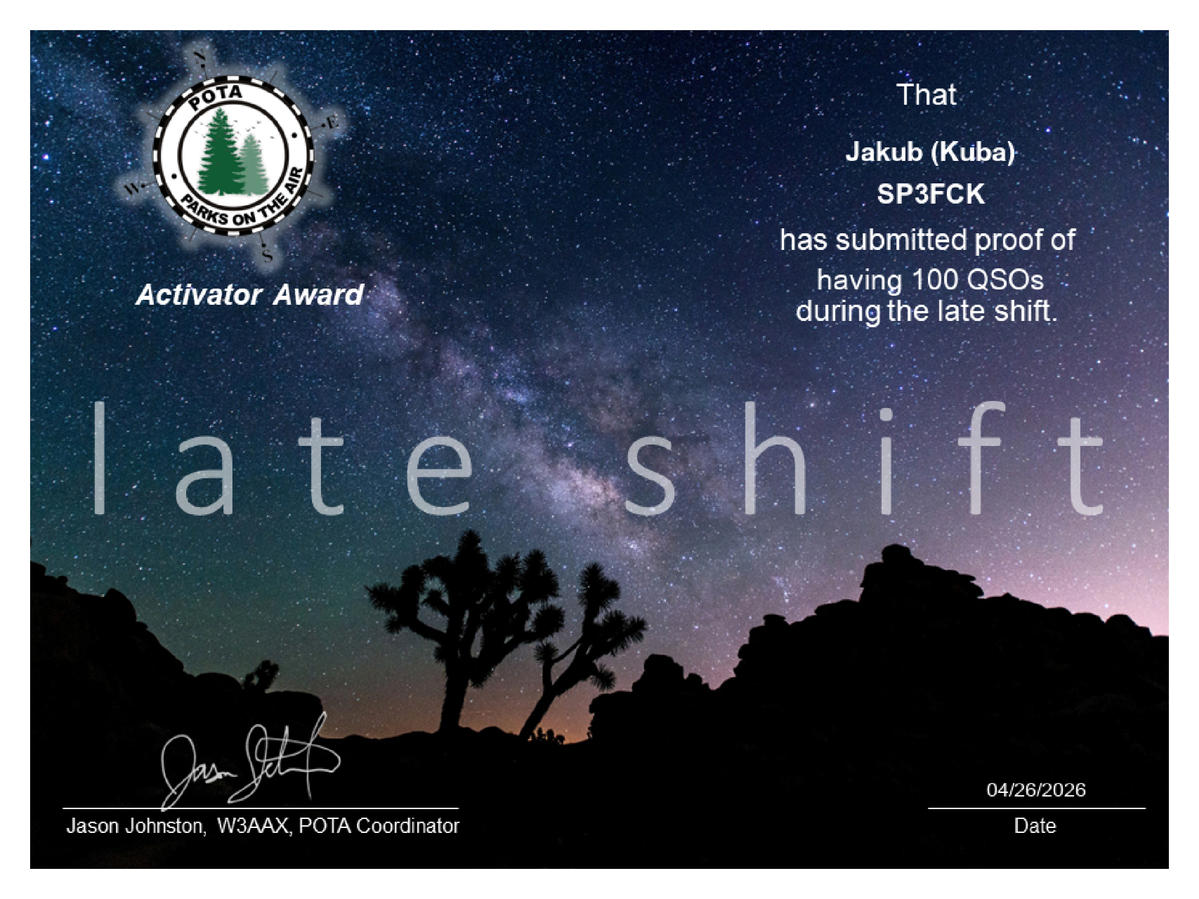
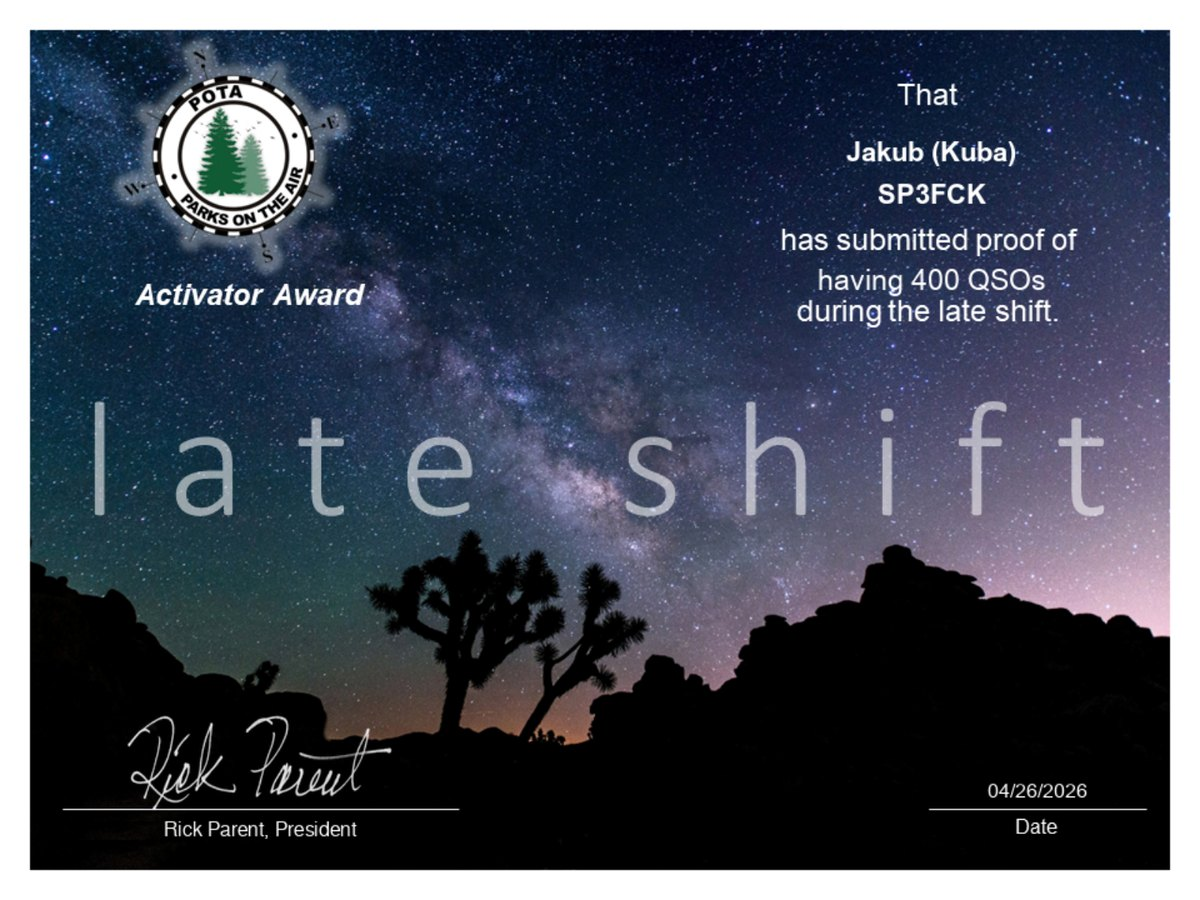
feat: update the awards gallery with new certificates
Add seven certificates converted from PDF (LLOTA Hunter, POTA Goldenrod
Hunter, All Voivodeships Hunter, Sapphire Hunter and higher levels of
DX Hunter, Park to Park and Late Shift Activator), drop the four
superseded entries and order the awards chronologically, newest first.

diff --git a/data/gallery.js b/data/gallery.js
@@ -1,30 +1,30 @@
-/* Galeria: zdjęcia w assets/img/gallery/. Kolejność = kolejność na stronie (najnowsze/najważniejsze pierwsze).
+/* Galeria: zdjęcia w assets/img/gallery/. Kolejność = kolejność na stronie; dyplomy chronologicznie, od najnowszego.
    cat: "awards" (dyplomy) albo "station" (stacja i sprzęt). Teksty: [EN, PL]. */
 window.SP3FCK_GALLERY = [
+  { file: 'LLOTA_Award_LLOTA_23961_2026.jpg', cat: 'awards', year: 2026,
+    title: ['LLOTA Hunter', 'LLOTA Hunter'],
+    desc: ['Hunted 10 references in the LLOTA program', '10 upolowanych referencji w programie LLOTA'] },
+  { file: 'SP3FCK_POTA_Ouachita_Mountain_Goldenrod_Hunter.jpg', cat: 'awards', year: 2026,
+    title: ['POTA Ouachita Mountain Goldenrod Hunter', 'POTA Ouachita Mountain Goldenrod Hunter'],
+    desc: ['Worked 300 different parks', '300 różnych parków zaliczonych'] },
+  { file: 'SP3FCK_POTA_Worked_All_Voivodeships_in_Poland.jpg', cat: 'awards', year: 2026,
+    title: ['POTA All Voivodeships Hunter', 'POTA All Voivodeships Hunter'],
+    desc: ['At least one park worked in every voivodeship of Poland', 'Co najmniej jeden park zaliczony w każdym województwie'] },
+  { file: 'SP3FCK_POTA_Enrubio_Hunter.jpg', cat: 'awards', year: 2026,
+    title: ['POTA Enrubio Hunter', 'POTA Enrubio Hunter'],
+    desc: ['Worked 200 different parks', '200 różnych parków zaliczonych'] },
+  { file: 'SP3FCK_POTA_Late_Shift_Activator.jpg', cat: 'awards', year: 2026,
+    title: ['POTA Late Shift Activator', 'POTA Late Shift Activator'],
+    desc: ['400 QSOs during the late shift', '400 łączności w nocnej zmianie'] },
   { file: 'SP3FCK_CQWPX_2026_SSB_2.jpg', cat: 'awards', year: 2026,
     title: ['CQ WPX SSB 2026 – Rookie', 'CQ WPX SSB 2026 – Rookie'],
     desc: ['Certificate for second place in Poland', 'Dyplom za drugie miejsce w Polsce'] },
   { file: 'SP3FCK_CQWPX_2026_SSB_27.jpg', cat: 'awards', year: 2026,
     title: ['CQ WPX SSB 2026 – Poland', 'CQ WPX SSB 2026 – Polska'],
     desc: ['Single Operator Low Power certificate', 'Dyplom w kategorii Single Operator Low Power'] },
-  { file: 'SP3FCK_POTA_Enrubio_Hunter.jpg', cat: 'awards', year: 2026,
-    title: ['POTA Enrubio Hunter', 'POTA Enrubio Hunter'],
-    desc: ['Worked 200 different parks', '200 różnych parków zaliczonych'] },
-  { file: 'SP3FCK_POTA_Late_Shift_Activator.jpg', cat: 'awards', year: 2026,
-    title: ['POTA Late Shift Activator', 'POTA Late Shift Activator'],
-    desc: ['Late Shift Activator Award', 'Dyplom za aktywacje w nocnej zmianie'] },
-  { file: 'CQWW_2025_SSB_certificate_rookie.png', cat: 'awards', year: 2025,
-    title: ['CQ WW SSB 2025 – Rookie', 'CQ WW SSB 2025 – Rookie'],
-    desc: ['My result in the Rookie category – 20 W, Xiegu G90', 'Mój wynik w kategorii Rookie – 20 W, Xiegu G90'] },
-  { file: 'SP3FCK_CQWW_2025_SSB_certificate.png', cat: 'awards', year: 2025,
-    title: ['CQ WW SSB 2025', 'CQ WW SSB 2025'],
-    desc: ['My first CQ contest – 20 W, Xiegu G90', 'Moje pierwsze zawody CQ – 20 W, Xiegu G90'] },
   { file: 'LLOTA_Award_LLOTA_1257_2026.jpg', cat: 'awards', year: 2026,
     title: ['LLOTA Award', 'Dyplom LLOTA'],
     desc: ['Lakes and Lagoons On The Air', 'Lakes and Lagoons On The Air – jeziora i laguny w eterze'] },
-  { file: 'sp3fck.jpg', cat: 'awards', year: 2026,
-    title: ['Polish POTA Award', 'Polski dyplom POTA'],
-    desc: ['For POTA activity in 2025', 'Za aktywność w POTA w 2025 roku'] },
   { file: 'Support_Your_Parks_Activator_jpg.jpg', cat: 'awards', year: 2026,
     title: ['POTA Support Your Parks Activator', 'POTA Support Your Parks Activator'],
     desc: ['Activator award for the Support Your Parks weekend', 'Dyplom aktywatora za weekend Support Your Parks'] },
@@ -36,28 +36,37 @@ window.SP3FCK_GALLERY = [
     desc: ['New Year\'s hunter award', 'Noworoczny dyplom łowcy'] },
   { file: 'SP3FCK_POTA_Park_to_Park.jpg', cat: 'awards', year: 2026,
     title: ['POTA Park to Park', 'POTA Park to Park'],
-    desc: ['25 park-to-park QSOs', '25 łączności park–park'] },
+    desc: ['125 park-to-park QSOs', '125 łączności park–park'] },
+  { file: 'sp3fck.jpg', cat: 'awards', year: 2026,
+    title: ['Polish POTA Award', 'Polski dyplom POTA'],
+    desc: ['For POTA activity in 2025', 'Za aktywność w POTA w 2025 roku'] },
   { file: 'SP3FCK_POTA_Arizona_Agave_Hunter.jpg', cat: 'awards', year: 2025,
     title: ['POTA Arizona Agave Hunter', 'POTA Arizona Agave Hunter'],
     desc: ['Worked 100 different parks', '100 różnych parków zaliczonych'] },
   { file: 'award_327_SP3FCK.jpg', cat: 'awards', year: 2025,
     title: ['Special Event Activator Award', 'Dyplom aktywatora stacji okolicznościowej'],
     desc: ['Thanks to all participants, 73!', 'Dziękuję wszystkim za łączności, 73!'] },
+  { file: 'CQWW_2025_SSB_certificate_rookie.png', cat: 'awards', year: 2025,
+    title: ['CQ WW SSB 2025 – Rookie', 'CQ WW SSB 2025 – Rookie'],
+    desc: ['My result in the Rookie category – 20 W, Xiegu G90', 'Mój wynik w kategorii Rookie – 20 W, Xiegu G90'] },
+  { file: 'SP3FCK_CQWW_2025_SSB_certificate.png', cat: 'awards', year: 2025,
+    title: ['CQ WW SSB 2025', 'CQ WW SSB 2025'],
+    desc: ['My first CQ contest – 20 W, Xiegu G90', 'Moje pierwsze zawody CQ – 20 W, Xiegu G90'] },
+  { file: 'SP3FCK_POTA_Sapphire_Hunter.jpg', cat: 'awards', year: 2025,
+    title: ['POTA Sapphire Hunter', 'POTA Sapphire Hunter'],
+    desc: ['Worked 75 different parks', '75 różnych parków zaliczonych'] },
   { file: 'award_210_SP3FCK.jpg', cat: 'awards', year: 2025,
     title: ['Special Event Award', 'Dyplom za stacje okolicznościowe'],
     desc: ['Confirmed contacts with special event stations', 'Potwierdzone łączności ze stacjami okolicznościowymi'] },
-  { file: 'SP3FCK_POTA_Diamond_Hunter_1.jpg', cat: 'awards', year: 2025,
-    title: ['POTA Diamond Hunter', 'POTA Diamond Hunter'],
-    desc: ['Worked 50 different parks', '50 różnych parków zaliczonych'] },
-  { file: 'SP3FCK_POTA_DX_Hunter_1.jpg', cat: 'awards', year: 2025,
+  { file: 'SP3FCK_POTA_DX_Hunter.jpg', cat: 'awards', year: 2025,
     title: ['POTA DX Hunter', 'POTA DX Hunter'],
-    desc: ['Parks in 5 different DXCC entities', 'Parki w 5 różnych krajach DXCC'] },
-  { file: 'POTA_Support_Your_Parks_Hunter_1.jpg', cat: 'awards', year: 2025,
-    title: ['POTA Support Your Parks Hunter', 'POTA Support Your Parks Hunter'],
-    desc: ['Hunter contacts during a Support Your Parks event', 'Łączności łowcy w czasie akcji Support Your Parks'] },
+    desc: ['Parks in 30 different DXCC entities', 'Parki w 30 różnych krajach DXCC'] },
   { file: 'award_116_SP3FCK_1.jpg', cat: 'awards', year: 2025,
     title: ['Special Event Award', 'Dyplom za stacje okolicznościowe'],
     desc: ['Confirmed contacts with special event stations', 'Potwierdzone łączności ze stacjami okolicznościowymi'] },
+  { file: 'POTA_Support_Your_Parks_Hunter_1.jpg', cat: 'awards', year: 2025,
+    title: ['POTA Support Your Parks Hunter', 'POTA Support Your Parks Hunter'],
+    desc: ['Hunter contacts during a Support Your Parks event', 'Łączności łowcy w czasie akcji Support Your Parks'] },
   { file: 'award_164_SP3FCK_1.jpg', cat: 'awards', year: 2025,
     title: ['Special Event Award', 'Dyplom za stacje okolicznościowe'],
     desc: ['Confirmed contacts with special event stations', 'Potwierdzone łączności ze stacjami okolicznościowymi'] },
